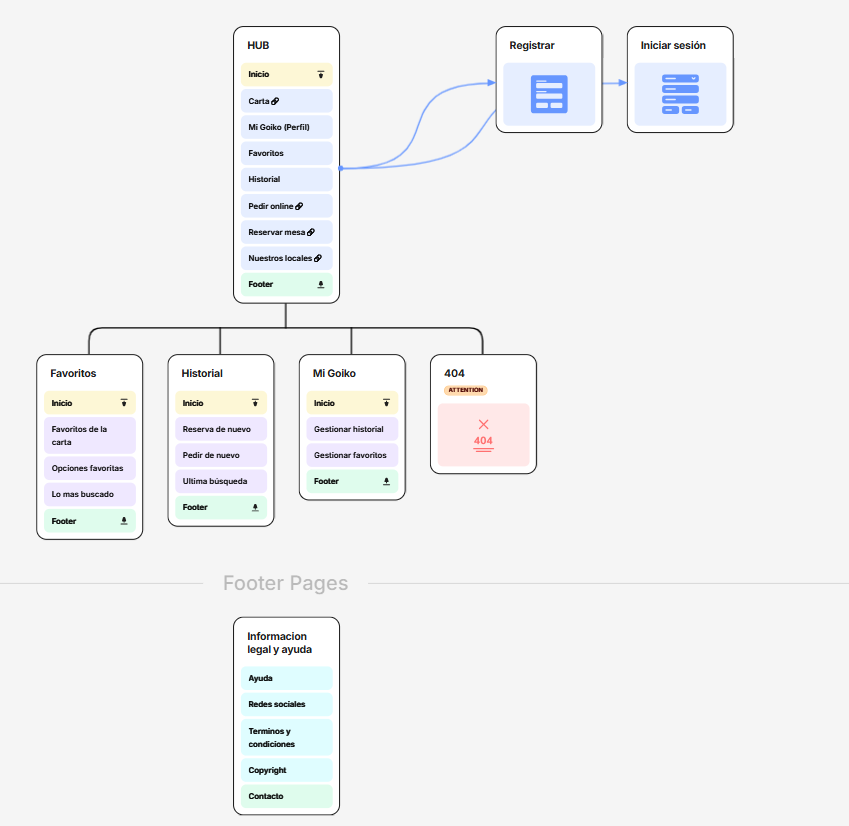
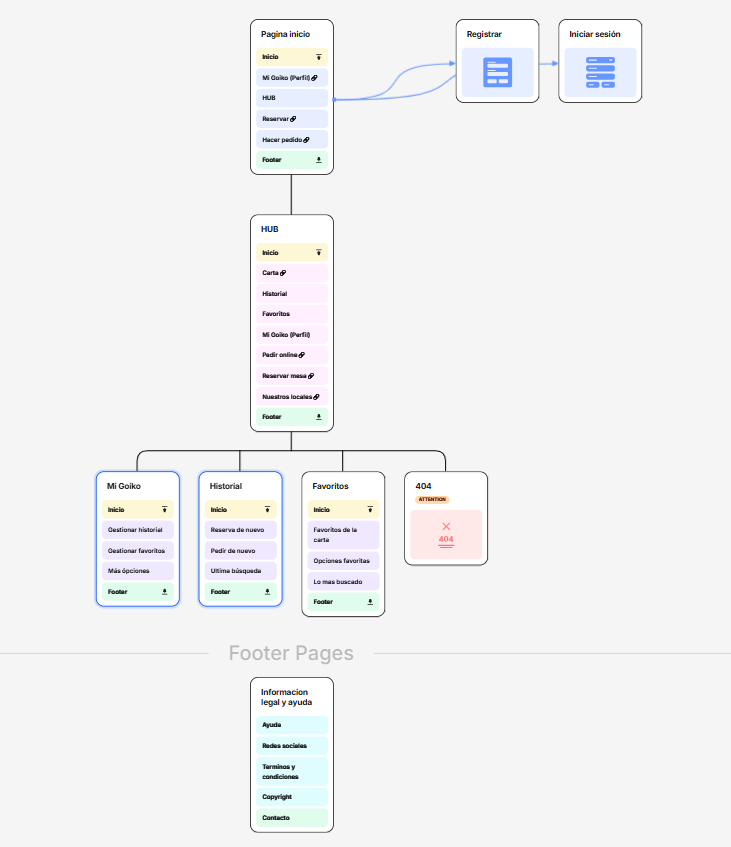
Nuevo siteMap
Modificado como dijo el maestro

diff --git a/README.md b/README.md
@@ -192,7 +192,7 @@ Para mostrar el funcionamiento amigable del HUB, hemos querido representar el fl
 ![Método UX](img/labelling.png) 
 ----
 
-Asi quedaría la navegación por nuestro sistema:
+Asi quedaría la navegación por nuestro sistema: Se ha querido indicar la estructura del *HUB*, del mismo modo, como hijos de este tenemos algunas de las funciones nuevas, como **Historial** o **Favoritos** con sus propias opciones, junto con las nuevas ópciones del perfil de Goiko **Mi Goiko**, donde con la implementación del *HUB* podrás gestionar tus favoritos y tu historial de busqueda.
 ![Sitemap](P2/Realizacion/SiteMap.png)
 
 Término | Significado     
